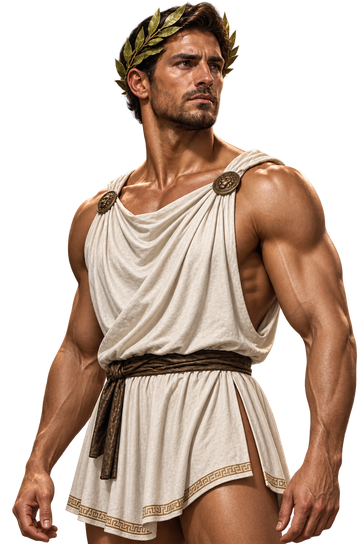
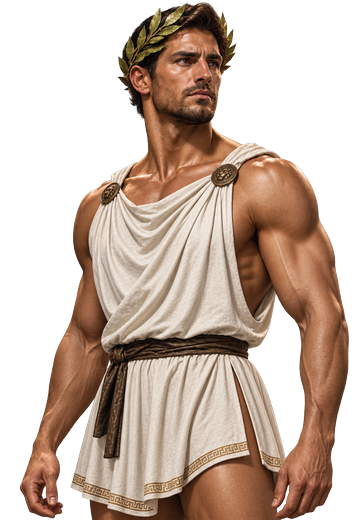
Standardize all portrait images to the same canvas size/format, add fourth (female) portrait option

Changed region(s): [[0.5194, 0.0, 1.0, 1.0], [0.0306, 0.0, 0.4889, 1.0], [0.4278, 0.4308, 0.4583, 0.4615]]

diff --git a/index.html b/index.html
@@ -1618,8 +1618,8 @@ function renderAttrs(level) {
     </div>`).join('<div style="height:10px"></div>');
 }
 
-const AVATAR_VERSION = 15; // increment whenever a portrait image changes, forces a fresh load
-const PORTRAITS = ['athlete-portrait.png', 'athlete-portrait-2.png', 'athlete-portrait-3.png'];
+const AVATAR_VERSION = 16; // increment whenever a portrait image changes, forces a fresh load
+const PORTRAITS = ['athlete-portrait.png', 'athlete-portrait-2.png', 'athlete-portrait-3.png', 'athlete-portrait-4.png'];
 
 function portraitUrl(entry) {
   const idx = entry && entry.portrait ? entry.portrait - 1 : 0;
